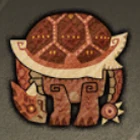
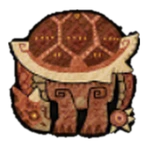
絵装の小型モンスターの印の背景を抜く
Claude-Session: https://claude.ai/code/session_01XWReKTy2nFWjJnPGMAGKf6

diff --git a/sw.js b/sw.js
@@ -1,5 +1,5 @@
 /* 装備おすすめ service worker: ネットワーク優先、オフライン時はキャッシュ */
-const VERSION = '2026.11.28-8';
+const VERSION = '2026.11.28-9';
 const CACHE = 'mho-equip-' + VERSION;
 const SHELL = ['./', 'index.html', 'style.css', 'app.js', 'phrase.js', 'solver.js', 'manifest.webmanifest',
   'fonts/ShipporiMinchoB1-ExtraBold.subset.woff2', 'vendor/budoux/parser.js', 'vendor/budoux/ja.js',

diff --git a/app.js b/app.js
@@ -1,6 +1,6 @@
 /* 融光工房 ― UI */
 'use strict';
-const APP_VERSION = '2026.11.28-8';
+const APP_VERSION = '2026.11.28-9';
 const STORE_KEY = 'mho-equip:v1';
 const PART_JP = { head: '頭', body: '胴', arm: '腕', waist: '腰', leg: '脚' };
 const $ = (sel) => document.querySelector(sel);
